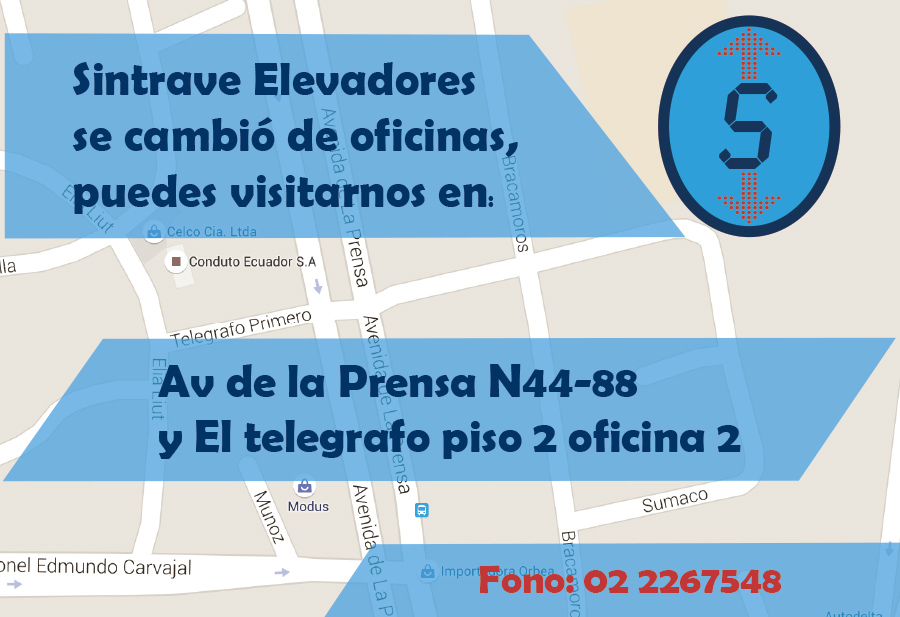
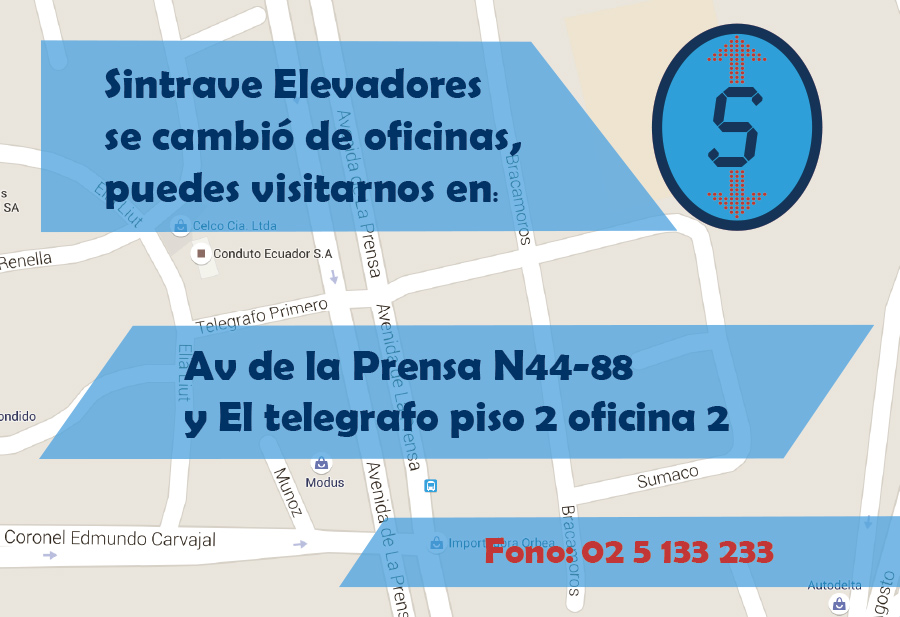
Cambios nuevo fono

diff --git a/contacto/contacto.php b/contacto/contacto.php
@@ -134,8 +134,8 @@ require('../blog/includes/config.php');
 				<h3>Dirección:</h3>
 				<p>Av de la Prensa N44-88 y El telegrafo, piso 2 oficina 2</p>
 				<h3>Teléfonos:</h3>
-				<p><span class="pf pf_tel"></span>(593) 02 2 267 548</p>
-				<p><span class="pf pf_tel"></span>(593) 02 2 964 661 </p>
+				<p><span class="pf pf_tel"></span>(593) 02 5 133 233</p>
+				<p><span class="pf pf_tel"></span>(593) 02 2 964 661</p>
 				<p><span class="pf pf_cel"></span> 0992860418</p>
 				<aside class="clearfix">
 					<div class="social">
